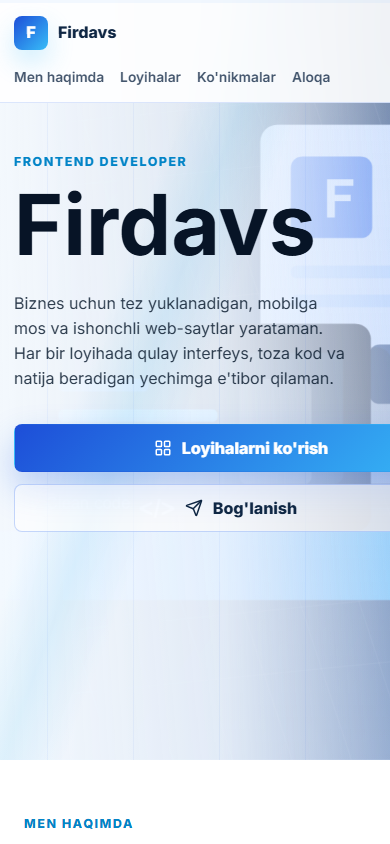
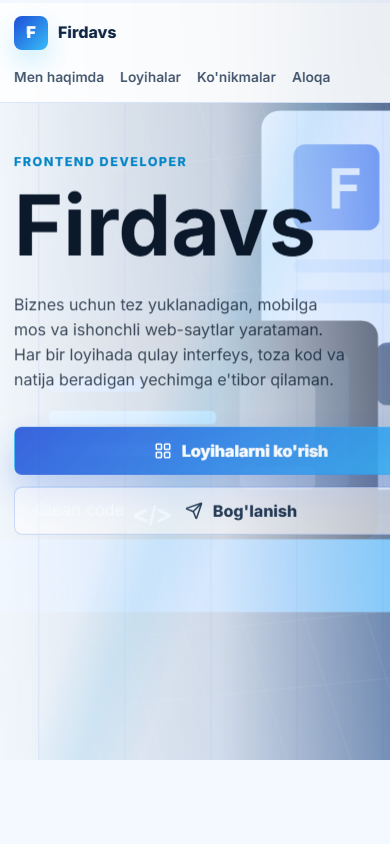
Fix animations being suppressed

diff --git a/styles.css b/styles.css
@@ -839,20 +839,29 @@ h2 {
   }
 }
 
+html.reduce-motion {
+  scroll-behavior: auto !important;
+}
+
+html.reduce-motion *,
+html.reduce-motion *::before,
+html.reduce-motion *::after {
+  animation-duration: 1ms !important;
+  animation-iteration-count: 1 !important;
+  transition-duration: 1ms !important;
+}
+
+html.reduce-motion .reveal {
+  opacity: 1;
+  filter: none;
+  transform: none;
+}
+
 @media (prefers-reduced-motion: reduce) {
   *,
   *::before,
   *::after {
-    scroll-behavior: auto !important;
-    animation-duration: 1ms !important;
-    animation-iteration-count: 1 !important;
-    transition-duration: 1ms !important;
-  }
-
-  .reveal {
-    opacity: 1;
-    filter: none;
-    transform: none;
+    scroll-behavior: auto;
   }
 }
 

diff --git a/script.js b/script.js
@@ -2,7 +2,7 @@ const root = document.documentElement;
 const themeToggle = document.querySelector("#themeToggle");
 const copyEmail = document.querySelector("#copyEmail");
 const email = "[email redacted]";
-const reduceMotion = window.matchMedia("(prefers-reduced-motion: reduce)").matches;
+const reduceMotion = false;
 const smoothScroller =
   !reduceMotion && window.Lenis
     ? new window.Lenis({
@@ -134,7 +134,7 @@ revealItems.forEach((item, index) => {
   item.style.setProperty("--reveal-delay", `${Math.min(delayIndex * 90, 360)}ms`);
 });
 
-if ("IntersectionObserver" in window) {
+function startRevealAnimations() {
   const observer = new IntersectionObserver(
     (entries) => {
       entries.forEach((entry) => {
@@ -144,10 +144,19 @@ if ("IntersectionObserver" in window) {
         }
       });
     },
-    { threshold: 0.16 }
+    {
+      threshold: 0.16,
+      rootMargin: "0px 0px -8% 0px"
+    }
   );
 
   revealItems.forEach((item) => observer.observe(item));
+}
+
+if ("IntersectionObserver" in window) {
+  window.requestAnimationFrame(() => {
+    window.requestAnimationFrame(startRevealAnimations);
+  });
 } else {
   revealItems.forEach((item) => item.classList.add("is-visible"));
 }